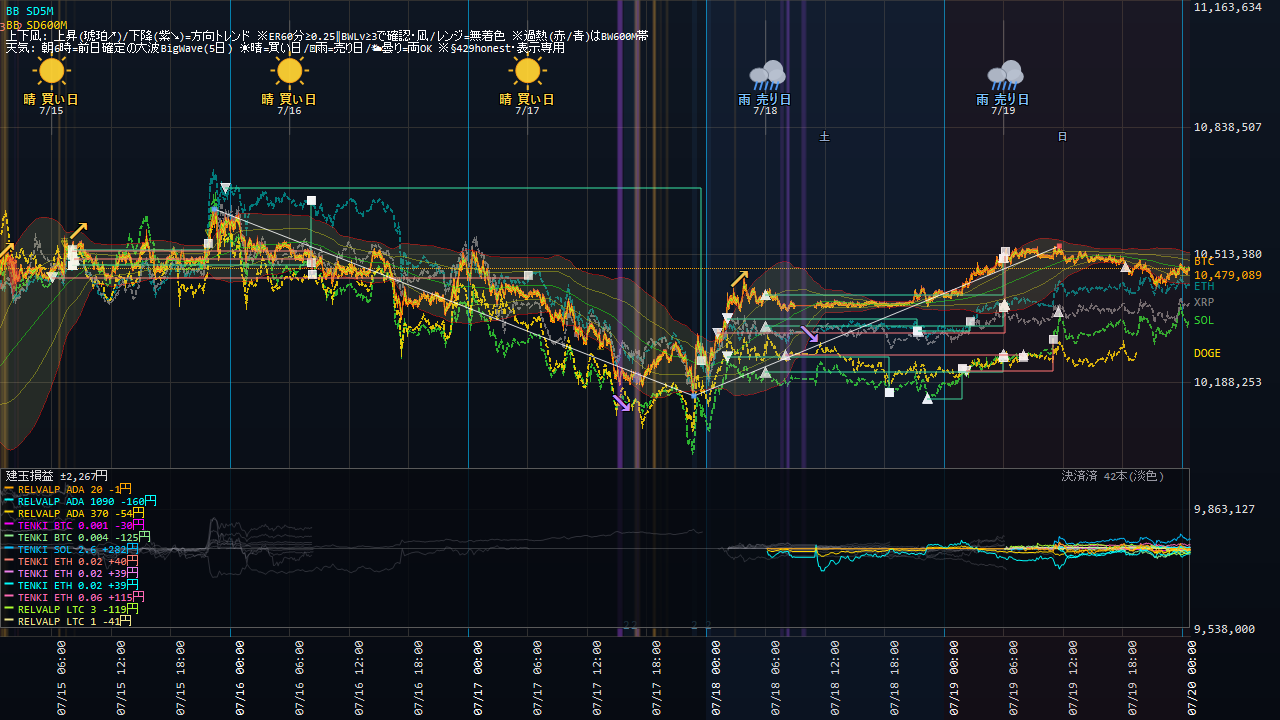
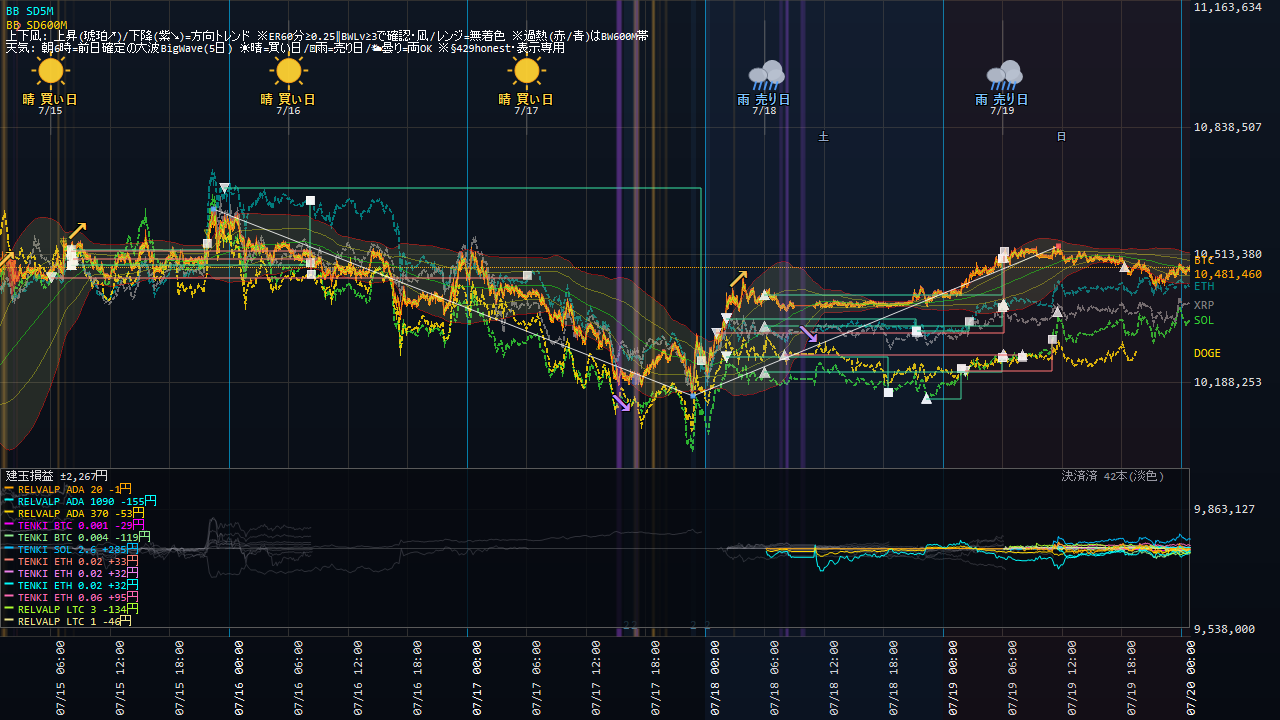
Coin100S 運用状況更新 07-20 00:59

diff --git a/coin100s-795hc4jfv8/index.html b/coin100s-795hc4jfv8/index.html
@@ -14,16 +14,16 @@ a{color:#60a5fa;text-decoration:none} a:hover{text-decoration:underline}
 .meta{color:#94a3b8;font-size:13px}</style>
 <script>setTimeout(function(){location.replace(location.pathname+"?t="+Date.now());},300000);</script></head><body>
 <h1>Coin100S ダッシュボード</h1>
-<p class="meta">スナップショット: 2026-07-20 00:52:59(自動リロード・最新化)</p>
+<p class="meta">スナップショット: 2026-07-20 00:58:59(自動リロード・最新化)</p>
 <div class="cards">
 <div class="card">建玉数<div class="v">15</div></div>
 <div class="card">本日損益<div class="v neg">-173円</div></div>
-<div class="card">評価損益<div class="v neg">-297円</div></div>
+<div class="card">評価損益<div class="v neg">-286円</div></div>
 </div>
 <h2>現在の建玉</h2>
-<table><tr><th>銘柄</th><th>側</th><th>数量</th><th>建値</th><th>含損益</th><th>レッグ</th></tr><tr><td>ADA_JPY</td><td>SELL</td><td>370</td><td>@27</td><td>-54円</td><td>RELVALP_SL700</td></tr><tr><td>ADA_JPY</td><td>SELL</td><td>1090</td><td>@27</td><td>-157円</td><td>RELVALP_SELL</td></tr><tr><td>ADA_JPY</td><td>SELL</td><td>20</td><td>@27</td><td>-1円</td><td>RELVALP_SELL</td></tr><tr><td>BTC_JPY</td><td>BUY</td><td>0.003</td><td>@10,483,479</td><td>-17円</td><td>SIGFADE_BTC</td></tr><tr><td>BTC_JPY</td><td>BUY</td><td>0.004</td><td>@10,508,065</td><td>-121円</td><td>TENKI5D_REV_BTC</td></tr><tr><td>BTC_JPY</td><td>BUY</td><td>0.001</td><td>@10,507,259</td><td>-30円</td><td>TENKI5D_REV_BTC</td></tr><tr><td>DOGE_JPY</td><td>BUY</td><td>4570</td><td>@12</td><td>-42円</td><td>TENKI5D_REV_DOGE</td></tr><tr><td>ETH_JPY</td><td>BUY</td><td>0.06</td><td>@301,910</td><td>+97円</td><td>TENKI5D_REV_ETH</td></tr><tr><td>ETH_JPY</td><td>BUY</td><td>0.02</td><td>@301,895</td><td>+32円</td><td>TENKI5D_REV_ETH</td></tr><tr><td>ETH_JPY</td><td>BUY</td><td>0.02</td><td>@301,872</td><td>+33円</td><td>TENKI5D_REV_ETH</td></tr><tr><td>ETH_JPY</td><td>BUY</td><td>0.02</td><td>@301,849</td><td>+33円</td><td>TENKI5D_REV_ETH</td></tr><tr><td>LTC_JPY</td><td>SELL</td><td>1</td><td>@7,635</td><td>-70円</td><td>RELVALP_SL700</td></tr><tr><td>LTC_JPY</td><td>SELL</td><td>3</td><td>@7,636</td><td>-207円</td><td>RELVALP_SELL</td></tr><tr><td>SOL_JPY</td><td>BUY</td><td>2.6</td><td>@12,400</td><td>-81円</td><td>TENKI5D_REV_SOL</td></tr><tr><td>SOL_JPY</td><td>BUY</td><td>2.6</td><td>@12,258</td><td>+288円</td><td>TENKI5D_REV_SOL</td></tr></table>
+<table><tr><th>銘柄</th><th>側</th><th>数量</th><th>建値</th><th>含損益</th><th>レッグ</th></tr><tr><td>ADA_JPY</td><td>SELL</td><td>370</td><td>@27</td><td>-53円</td><td>RELVALP_SL700</td></tr><tr><td>ADA_JPY</td><td>SELL</td><td>1090</td><td>@27</td><td>-155円</td><td>RELVALP_SELL</td></tr><tr><td>ADA_JPY</td><td>SELL</td><td>20</td><td>@27</td><td>-1円</td><td>RELVALP_SELL</td></tr><tr><td>BTC_JPY</td><td>BUY</td><td>0.003</td><td>@10,483,479</td><td>-10円</td><td>SIGFADE_BTC</td></tr><tr><td>BTC_JPY</td><td>BUY</td><td>0.004</td><td>@10,508,065</td><td>-111円</td><td>TENKI5D_REV_BTC</td></tr><tr><td>BTC_JPY</td><td>BUY</td><td>0.001</td><td>@10,507,259</td><td>-27円</td><td>TENKI5D_REV_BTC</td></tr><tr><td>DOGE_JPY</td><td>BUY</td><td>4570</td><td>@12</td><td>-42円</td><td>TENKI5D_REV_DOGE</td></tr><tr><td>ETH_JPY</td><td>BUY</td><td>0.06</td><td>@301,910</td><td>+91円</td><td>TENKI5D_REV_ETH</td></tr><tr><td>ETH_JPY</td><td>BUY</td><td>0.02</td><td>@301,895</td><td>+30円</td><td>TENKI5D_REV_ETH</td></tr><tr><td>ETH_JPY</td><td>BUY</td><td>0.02</td><td>@301,872</td><td>+31円</td><td>TENKI5D_REV_ETH</td></tr><tr><td>ETH_JPY</td><td>BUY</td><td>0.02</td><td>@301,849</td><td>+31円</td><td>TENKI5D_REV_ETH</td></tr><tr><td>LTC_JPY</td><td>SELL</td><td>1</td><td>@7,635</td><td>-70円</td><td>RELVALP_SL700</td></tr><tr><td>LTC_JPY</td><td>SELL</td><td>3</td><td>@7,636</td><td>-207円</td><td>RELVALP_SELL</td></tr><tr><td>SOL_JPY</td><td>BUY</td><td>2.6</td><td>@12,400</td><td>-81円</td><td>TENKI5D_REV_SOL</td></tr><tr><td>SOL_JPY</td><td>BUY</td><td>2.6</td><td>@12,258</td><td>+288円</td><td>TENKI5D_REV_SOL</td></tr></table>
 <p><a href="status.html"><b>▶ 運用状況の詳細(チャート・本日の取引・レジーム)</b></a></p>
 <h2>日報一覧</h2>
 <table><tr><th>取引日</th><th>実現損益</th><th>総括</th></tr><tr><td><a href='reports/20260718_Coin100S日報.html'>2026-07-18</a></td><td class="pos">+0円</td><td class='meta'>実取引: 新規9件/決済8件、実現損益 +0円。警告/孤児/エラーなし＝健全。</td></tr><tr><td><a href='reports/20260717_Coin100S日報.html'>2026-07-17</a></td><td class="pos">+0円</td><td class='meta'>実取引: 新規3件/決済2件、実現損益 +0円。シグナル却下1件（最多: BW10M3_5M／トレンド方向ゲート(N分傾き下と不一致=逆張り方向のfade禁止)）。⚠警告/エラー 2件（要確認）。</td></tr><tr><td><a href='reports/20260716_Coin100S日報.html'>2026-07-16</a></td><td class="pos">+0円</td><td class='meta'>実取引: 新規0件/決済5件、実現損益 +0円。⚠警告/エラー 7件（要確認）。</td></tr><tr><td><a href='reports/20260715_Coin100S日報.html'>2026-07-15</a></td><td class="pos">+0円</td><td class='meta'>実取引: 新規6件/決済5件、実現損益 +0円。シグナル却下6件（最多: BW10M3_5M／トレンド方向ゲート(N分傾き上と不一致=逆張り方向のfade禁止)）。⚠警告/エラー 7件（要確認）。</td></tr><tr><td><a href='reports/20260714_Coin100S日報.html'>2026-07-14</a></td><td class="pos">+0円</td><td class='meta'>実取引: 新規6件/決済18件、実現損益 +0円。シグナル却下5件（最多: BW10M3_5M／トレンド方向ゲート(N分傾き上と不一致=逆張り方向のfade禁止)）。⚠警告/エラー 9件（要確認）。</td></tr><tr><td><a href='reports/20260713_Coin100S日報.html'>2026-07-13</a></td><td class="pos">+0円</td><td class='meta'>実取引: 新規5件/決済8件、実現損益 +0円。シグナル却下1件（最多: BW10M3_5M／トレンド方向ゲート(N分傾き上と不一致=逆張り方向のfade禁止)）。警告/孤児/エラーなし＝健全。</td></tr><tr><td><a href='reports/20260712_Coin100S日報.html'>2026-07-12</a></td><td class="pos">+0円</td><td class='meta'>実取引: 新規14件/決済6件、実現損益 +0円。シグナル却下5件（最多: BW10M3_5M／トレンド方向ゲート(N分傾き下と不一致=逆張り方向のfade禁止)）。⚠警告/エラー 2件（要確認）。</td></tr><tr><td><a href='reports/20260711_Coin100S日報.html'>2026-07-11</a></td><td class="pos">+0円</td><td class='meta'>実取引: 新規7件/決済6件、実現損益 +0円。⚠警告/エラー 52件（要確認）。</td></tr><tr><td><a href='reports/20260710_Coin100S日報.html'>2026-07-10</a></td><td class="pos">+0円</td><td class='meta'>実取引: 新規7件/決済6件、実現損益 +0円。シグナル却下6件（最多: BW10M3_5M／トレンド方向ゲート(N分傾き上と不一致=逆張り方向のfade禁止)）。警告/孤児/エラーなし＝健全。</td></tr><tr><td><a href='reports/20260709_Coin100S日報.html'>2026-07-09</a></td><td class="pos">+0円</td><td class='meta'>実取引: 新規8件/決済3件、実現損益 +0円。シグナル却下5件（最多: SD120M_5M／トレンド方向ゲート(N分傾き上と不一致=逆張り方向のfade禁止)）。警告/孤児/エラーなし＝健全。</td></tr><tr><td><a href='reports/20260708_Coin100S日報.html'>2026-07-08</a></td><td class="pos">+0円</td><td class='meta'>実取引: 新規2件/決済4件、実現損益 +0円。シグナル却下4件（最多: SD120M_5M／トレンド方向ゲート(N分傾き下と不一致=逆張り方向のfade禁止)）。警告/孤児/エラーなし＝健全。</td></tr><tr><td><a href='reports/20260707_Coin100S日報.html'>2026-07-07</a></td><td class="pos">+0円</td><td class='meta'>実取引: 新規8件/決済6件、実現損益 +0円。シグナル却下4件（最多: SD120M_5M／トレンド方向ゲート(N分傾き上と不一致=逆張り方向のfade禁止)）。⚠警告/エラー 258件（要確認）。</td></tr><tr><td><a href='reports/20260706_Coin100S日報.html'>2026-07-06</a></td><td class="pos">+0円</td><td class='meta'>実取引: 新規9件/決済6件、実現損益 +0円。シグナル却下9件（最多: SD120M_5M／トレンド方向ゲート(N分傾き上と不一致=逆張り方向のfade禁止)）。⚠警告/エラー 150件（要確認）。</td></tr><tr><td><a href='reports/20260705_Coin100S日報.html'>2026-07-05</a></td><td class="pos">+0円</td><td class='meta'>実取引: 新規8件/決済3件、実現損益 +0円。⚠警告/エラー 2件（要確認）。</td></tr><tr><td><a href='reports/20260704_Coin100S日報.html'>2026-07-04</a></td><td class="pos">+0円</td><td class='meta'>実取引: 新規1件/決済2件、実現損益 +0円。⚠警告/エラー 2件（要確認）。</td></tr><tr><td><a href='reports/20260703_Coin100S日報.html'>2026-07-03</a></td><td class="pos">+0円</td><td class='meta'>実取引: 新規5件/決済4件、実現損益 +0円。⚠警告/エラー 15件（要確認）。</td></tr><tr><td><a href='reports/20260702_Coin100S日報.html'>2026-07-02</a></td><td class="pos">+0円</td><td class='meta'>実取引: 新規7件/決済5件、実現損益 +0円。シグナル却下17件（最多: SD120M_5M／トレンド方向ゲート(N分傾き上と不一致=逆張り方向のfade禁止)）。⚠警告/エラー 26件（要確認）。</td></tr><tr><td><a href='reports/20260701_Coin100S日報.html'>2026-07-01</a></td><td class="pos">+0円</td><td class='meta'>実取引: 新規14件/決済8件、実現損益 +0円。シグナル却下14件（最多: SD120M_5M／ボラ軸ゲート(SDN%&amp;gt;N%=高ボラ/荒れレンジ)）。⚠警告/エラー 2件（要確認）。</td></tr><tr><td><a href='reports/20260630_Coin100S日報.html'>2026-06-30</a></td><td class="pos">+0円</td><td class='meta'>実取引: 新規0件/決済1件、実現損益 +0円。シグナル却下29件（最多: 微5M／当日枠N）。警告/孤児/エラーなし＝健全。</td></tr></table>
-<hr><p class="meta">更新: 2026-07-20 00:53:05 / 自動生成: tools/web_publish.py(§580)</p>
+<hr><p class="meta">更新: 2026-07-20 00:59:05 / 自動生成: tools/web_publish.py(§580)</p>
 </body></html>

diff --git a/coin100s-795hc4jfv8/status.html b/coin100s-795hc4jfv8/status.html
@@ -14,22 +14,22 @@ a{color:#60a5fa;text-decoration:none} a:hover{text-decoration:underline}
 .meta{color:#94a3b8;font-size:13px}</style>
 <script>setTimeout(function(){location.replace(location.pathname+"?t="+Date.now());},300000);</script></head><body>
 <h1>Coin100S 運用状況</h1>
-<p class="meta">スナップショット: 2026-07-20 00:52:59 / ページ生成: 2026-07-20 00:53:05(自動リロード・最新化) / <a href="index.html">目次へ</a></p>
+<p class="meta">スナップショット: 2026-07-20 00:58:59 / ページ生成: 2026-07-20 00:59:05(自動リロード・最新化) / <a href="index.html">目次へ</a></p>
 <div class="cards">
 <div class="card">建玉数<div class="v">15</div></div>
 <div class="card">本日損益<div class="v neg">-173円</div></div>
-<div class="card">評価損益<div class="v neg">-297円</div></div>
+<div class="card">評価損益<div class="v neg">-286円</div></div>
 </div>
 <h2>資産推移(直近30日)</h2>
-<img src="status_equity.png?t=0053" alt="equity">
+<img src="status_equity.png?t=0059" alt="equity">
 <h2>取引チャート(直近24h)</h2>
-<img src="status_chart.png?t=0053" alt="chart">
+<img src="status_chart.png?t=0059" alt="chart">
 <h2>建玉一覧</h2>
-<table><tr><th>銘柄</th><th>側</th><th>数量</th><th>建値</th><th>含損益</th><th>レッグ</th></tr><tr><td>ADA_JPY</td><td>SELL</td><td>370</td><td>@27</td><td>-54円</td><td>RELVALP_SL700</td></tr><tr><td>ADA_JPY</td><td>SELL</td><td>1090</td><td>@27</td><td>-157円</td><td>RELVALP_SELL</td></tr><tr><td>ADA_JPY</td><td>SELL</td><td>20</td><td>@27</td><td>-1円</td><td>RELVALP_SELL</td></tr><tr><td>BTC_JPY</td><td>BUY</td><td>0.003</td><td>@10,483,479</td><td>-17円</td><td>SIGFADE_BTC</td></tr><tr><td>BTC_JPY</td><td>BUY</td><td>0.004</td><td>@10,508,065</td><td>-121円</td><td>TENKI5D_REV_BTC</td></tr><tr><td>BTC_JPY</td><td>BUY</td><td>0.001</td><td>@10,507,259</td><td>-30円</td><td>TENKI5D_REV_BTC</td></tr><tr><td>DOGE_JPY</td><td>BUY</td><td>4570</td><td>@12</td><td>-42円</td><td>TENKI5D_REV_DOGE</td></tr><tr><td>ETH_JPY</td><td>BUY</td><td>0.06</td><td>@301,910</td><td>+97円</td><td>TENKI5D_REV_ETH</td></tr><tr><td>ETH_JPY</td><td>BUY</td><td>0.02</td><td>@301,895</td><td>+32円</td><td>TENKI5D_REV_ETH</td></tr><tr><td>ETH_JPY</td><td>BUY</td><td>0.02</td><td>@301,872</td><td>+33円</td><td>TENKI5D_REV_ETH</td></tr><tr><td>ETH_JPY</td><td>BUY</td><td>0.02</td><td>@301,849</td><td>+33円</td><td>TENKI5D_REV_ETH</td></tr><tr><td>LTC_JPY</td><td>SELL</td><td>1</td><td>@7,635</td><td>-70円</td><td>RELVALP_SL700</td></tr><tr><td>LTC_JPY</td><td>SELL</td><td>3</td><td>@7,636</td><td>-207円</td><td>RELVALP_SELL</td></tr><tr><td>SOL_JPY</td><td>BUY</td><td>2.6</td><td>@12,400</td><td>-81円</td><td>TENKI5D_REV_SOL</td></tr><tr><td>SOL_JPY</td><td>BUY</td><td>2.6</td><td>@12,258</td><td>+288円</td><td>TENKI5D_REV_SOL</td></tr></table>
+<table><tr><th>銘柄</th><th>側</th><th>数量</th><th>建値</th><th>含損益</th><th>レッグ</th></tr><tr><td>ADA_JPY</td><td>SELL</td><td>370</td><td>@27</td><td>-53円</td><td>RELVALP_SL700</td></tr><tr><td>ADA_JPY</td><td>SELL</td><td>1090</td><td>@27</td><td>-155円</td><td>RELVALP_SELL</td></tr><tr><td>ADA_JPY</td><td>SELL</td><td>20</td><td>@27</td><td>-1円</td><td>RELVALP_SELL</td></tr><tr><td>BTC_JPY</td><td>BUY</td><td>0.003</td><td>@10,483,479</td><td>-10円</td><td>SIGFADE_BTC</td></tr><tr><td>BTC_JPY</td><td>BUY</td><td>0.004</td><td>@10,508,065</td><td>-111円</td><td>TENKI5D_REV_BTC</td></tr><tr><td>BTC_JPY</td><td>BUY</td><td>0.001</td><td>@10,507,259</td><td>-27円</td><td>TENKI5D_REV_BTC</td></tr><tr><td>DOGE_JPY</td><td>BUY</td><td>4570</td><td>@12</td><td>-42円</td><td>TENKI5D_REV_DOGE</td></tr><tr><td>ETH_JPY</td><td>BUY</td><td>0.06</td><td>@301,910</td><td>+91円</td><td>TENKI5D_REV_ETH</td></tr><tr><td>ETH_JPY</td><td>BUY</td><td>0.02</td><td>@301,895</td><td>+30円</td><td>TENKI5D_REV_ETH</td></tr><tr><td>ETH_JPY</td><td>BUY</td><td>0.02</td><td>@301,872</td><td>+31円</td><td>TENKI5D_REV_ETH</td></tr><tr><td>ETH_JPY</td><td>BUY</td><td>0.02</td><td>@301,849</td><td>+31円</td><td>TENKI5D_REV_ETH</td></tr><tr><td>LTC_JPY</td><td>SELL</td><td>1</td><td>@7,635</td><td>-70円</td><td>RELVALP_SL700</td></tr><tr><td>LTC_JPY</td><td>SELL</td><td>3</td><td>@7,636</td><td>-207円</td><td>RELVALP_SELL</td></tr><tr><td>SOL_JPY</td><td>BUY</td><td>2.6</td><td>@12,400</td><td>-81円</td><td>TENKI5D_REV_SOL</td></tr><tr><td>SOL_JPY</td><td>BUY</td><td>2.6</td><td>@12,258</td><td>+288円</td><td>TENKI5D_REV_SOL</td></tr></table>
 <h2>実現決済履歴(直近15件・OrderId単位)</h2>
 <table><tr><th>決済時刻</th><th>レッグ</th><th>銘柄</th><th>実現損益</th></tr><tr><td>07-19 11:04</td><td>SIGFADE_SOL</td><td>SOL</td><td class="neg">-304円</td></tr><tr><td>07-19 08:01</td><td>TENKI5D_REV_DOGE</td><td>DOGE</td><td class="neg">-41円</td></tr><tr><td>07-19 06:16</td><td>SIGFADE_BTC</td><td>BTC</td><td class="neg">-627円</td></tr><tr><td>07-19 06:03</td><td>TENKI5D_REV_BTC</td><td>BTC</td><td class="pos">+92円</td></tr><tr><td>07-19 06:03</td><td>TENKI5D_REV_ETH</td><td>ETH</td><td class="pos">+212円</td></tr><tr><td>07-19 06:03</td><td>TENKI5D_REV_SOL</td><td>SOL</td><td class="pos">+128円</td></tr><tr><td>07-19 06:03</td><td>TENKI5D_REV_BTC</td><td>BTC</td><td class="pos">+367円</td></tr><tr><td>07-19 02:41</td><td>SIGFADE_ETH</td><td>ETH</td><td class="pos">+103円</td></tr><tr><td>07-19 01:53</td><td>SIGFADE_SOL</td><td>SOL</td><td class="pos">+9円</td></tr><tr><td>07-19 01:53</td><td>SIGFADE_SOL</td><td>SOL</td><td class="pos">+9円</td></tr><tr><td>07-18 21:23</td><td>SIGFADE_ETH</td><td>ETH</td><td class="pos">+114円</td></tr><tr><td>07-18 21:23</td><td>SIGFADE_ETH</td><td>ETH</td><td class="pos">+11円</td></tr><tr><td>07-18 18:31</td><td>SIGFADE_SOL</td><td>SOL</td><td class="pos">+119円</td></tr><tr><td>07-18 18:31</td><td>SIGFADE_SOL</td><td>SOL</td><td class="pos">+11円</td></tr><tr><td>07-18 18:31</td><td>SIGFADE_SOL</td><td>SOL</td><td class="pos">+200円</td></tr></table>
 <!-- §799c 「本取引日の実取引(6:00起点)」テーブルは公開ページから削除(ユーザー指示2026-07-15・数量/指値まで晒す情報漏れ)。建玉/実現損益は許可・実発注の生取引明細は非公開 -->
 <h2>現在レジーム(3軸・§570c)</h2>
-<ul><li>アルト対BTC 5日: <b>-151bps</b>(アルト劣後=RELVAL順風)</li><li>BTC ER240m: <b>0.028</b>(閾値0.25→レンジ(fade順風/BWTRD逆風))</li><li>BTC実現ボラ240m: <b>2.82</b> bps/分</li></ul>
+<ul><li>アルト対BTC 5日: <b>-151bps</b>(アルト劣後=RELVAL順風)</li><li>BTC ER240m: <b>0.032</b>(閾値0.25→レンジ(fade順風/BWTRD逆風))</li><li>BTC実現ボラ240m: <b>2.83</b> bps/分</li></ul>
 <hr><p class="meta">自動生成: tools/web_publish.py(§580・読み取り専用)。売買判断はアプリ本体。</p>
 </body></html>
